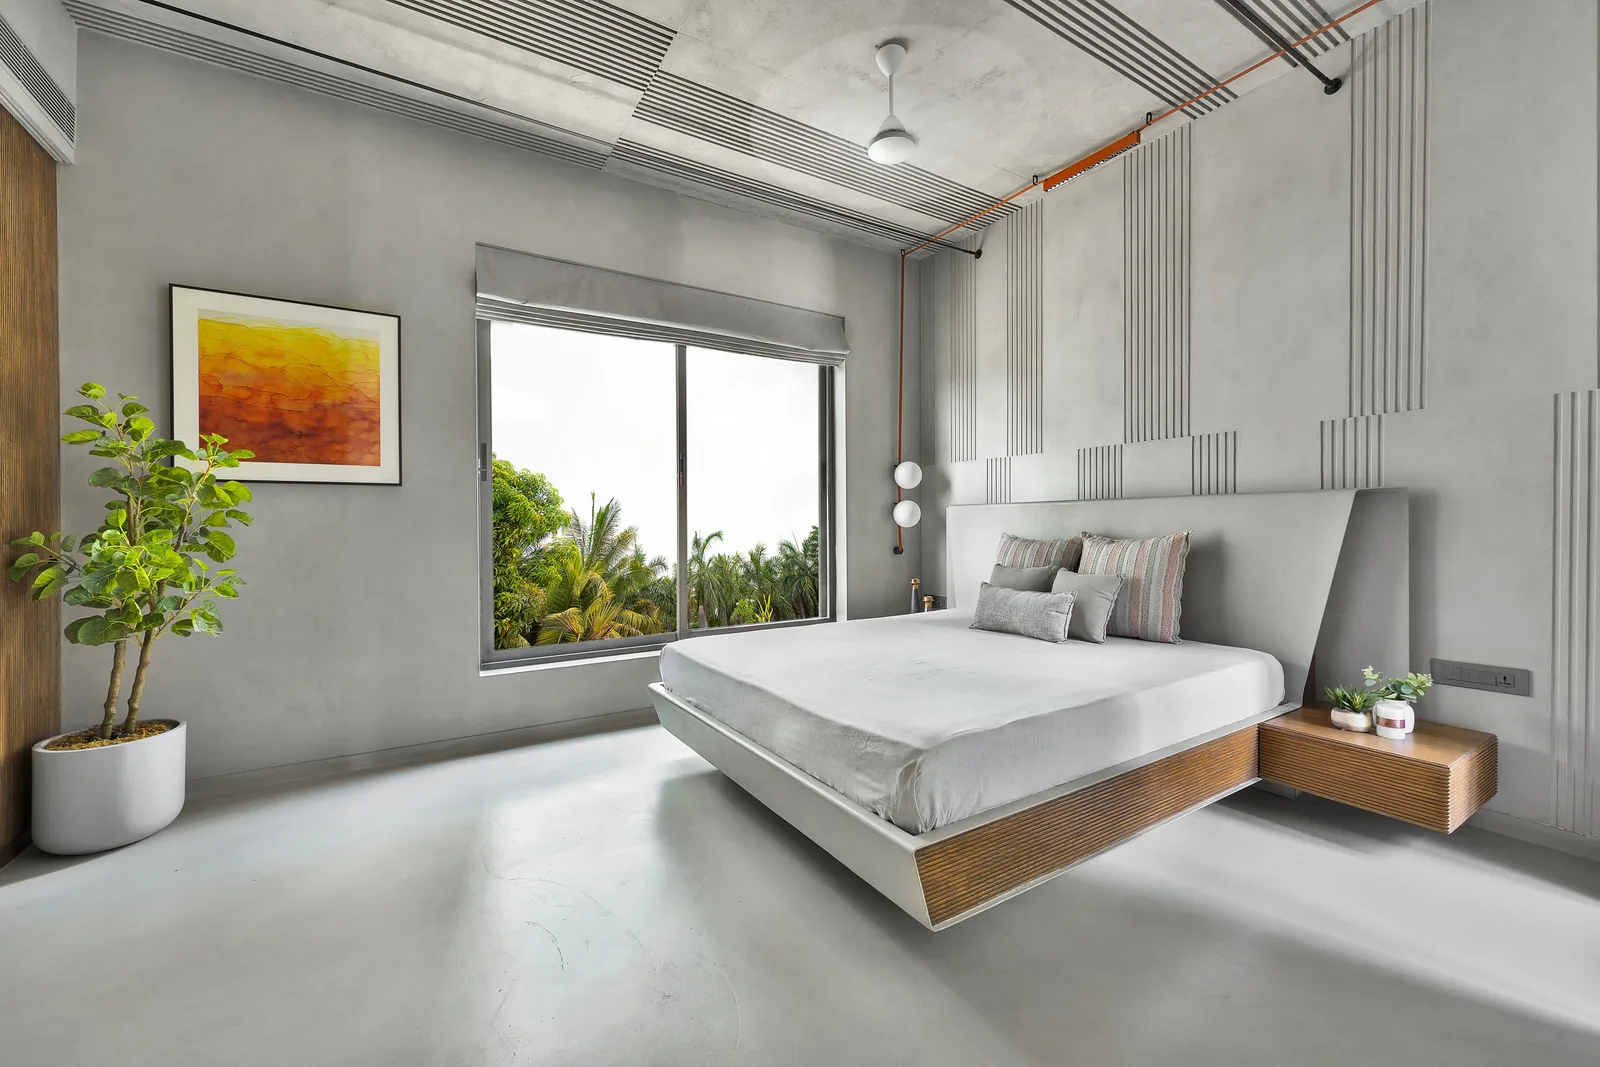
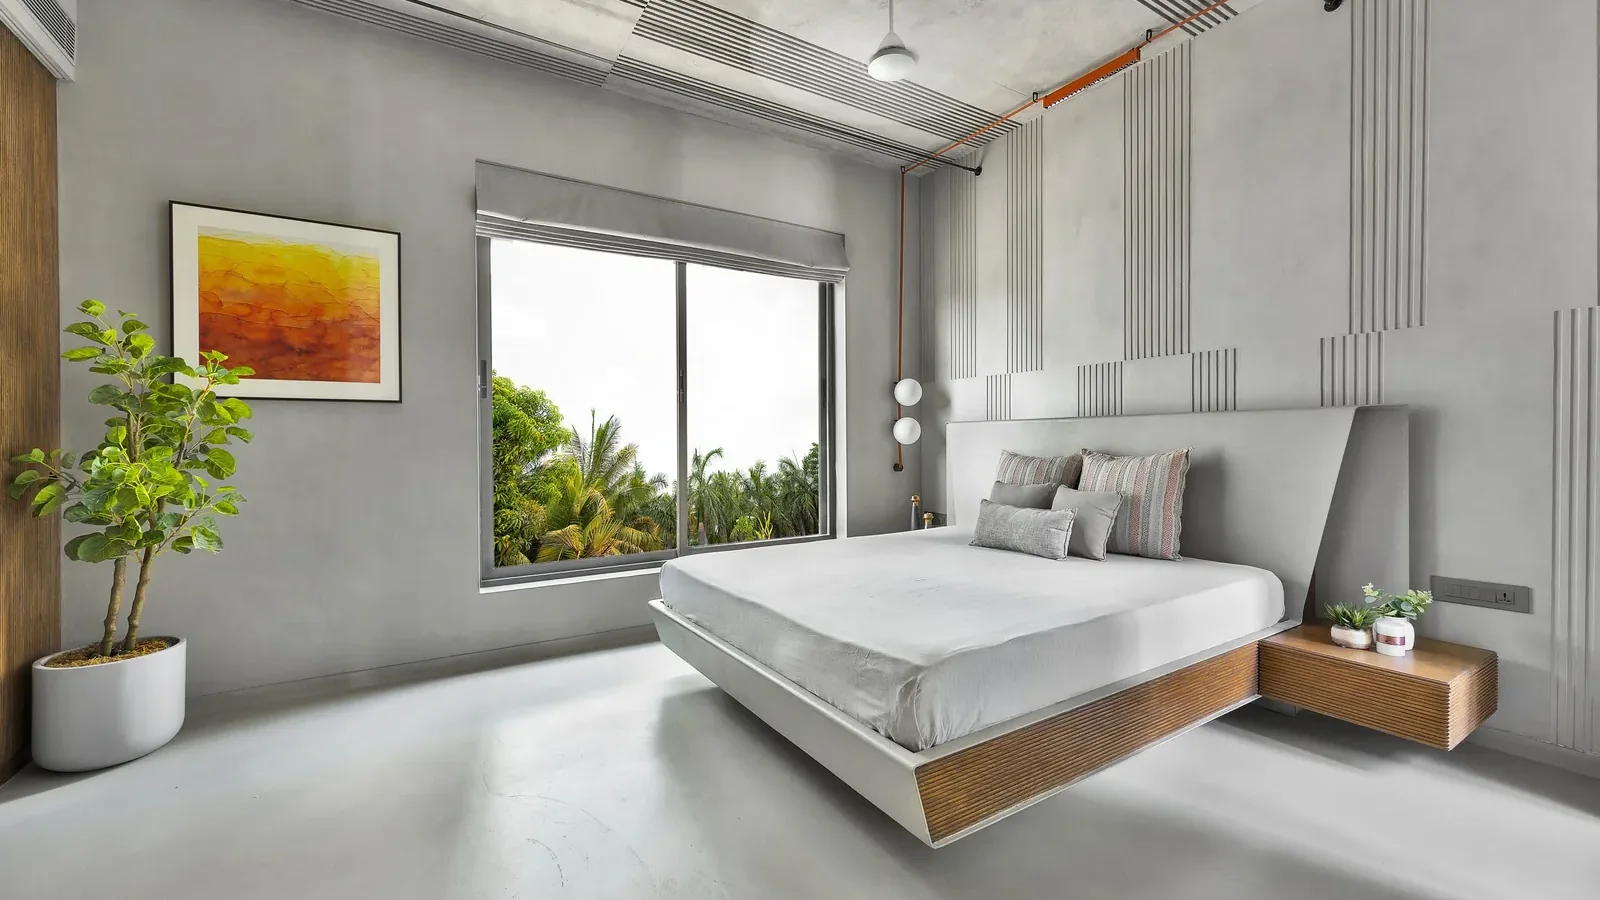
Interior slideshows: re-crop images to 16:9 high-res and fill edge-to-edge

diff --git a/css/style.css b/css/style.css
@@ -667,9 +667,9 @@ a.pgrp__head:hover .pgrp__title { color: var(--clay-soft); }
 .slide.is-active { opacity: 1; pointer-events: auto; }
 .slide img { width: 100%; height: 100%; object-fit: cover; display: block; transform: scale(1.03); transition: transform 6s var(--ease); }
 .slide.is-active img { transform: scale(1); }
-/* Interior slideshows: fixed 16:9 frame, whole photo shown (no crop, no stretch, no upscaling). */
+/* Interior slideshows: fixed 16:9 frame, filled edge-to-edge (images are pre-cropped to 16:9). */
 .slideshow--fit .slideshow__viewport { height: auto; aspect-ratio: 16 / 9; background: #0e1216; }
-.slideshow--fit .slide img { object-fit: contain; transform: none; }
+.slideshow--fit .slide img { object-fit: cover; transform: none; }
 .slideshow--fit .slide.is-active img { transform: none; }
 @media (max-width: 720px) { .slideshow--fit .slideshow__viewport { height: auto; } }
 .slideshow__nav { position: absolute; top: 50%; transform: translateY(-50%); z-index: 4; width: clamp(46px, 4vw, 58px); height: clamp(46px, 4vw, 58px); border-radius: 50%; border: 1px solid rgba(255,255,255,.45); background: rgba(10,16,22,.28); backdrop-filter: blur(4px); color: #fff; display: grid; place-items: center; cursor: pointer; opacity: .78; transition: opacity .3s var(--ease), background .3s var(--ease), border-color .3s var(--ease); }

diff --git a/about.html b/about.html
@@ -10,7 +10,7 @@
 <link rel="icon" type="image/png" sizes="16x16" href="assets/favicon-16.png?v=tdl" />
 <link rel="apple-touch-icon" sizes="180x180" href="assets/favicon-180.png?v=tdl" />
 <link rel="preconnect" href="https://fonts.googleapis.com" /><link rel="preconnect" href="https://fonts.gstatic.com" crossorigin /><link href="https://fonts.googleapis.com/css2?family=Cormorant+Garamond:wght@400;500;600&family=Quicksand:wght@300;400;500;600;700&display=swap" rel="stylesheet" />
-<link rel="stylesheet" href="css/style.css?v=7ea13d2f" />
+<link rel="stylesheet" href="css/style.css?v=a86cf709" />
 </head>
 <body>
 <header class="site-header solid on-light">

diff --git a/careers.html b/careers.html
@@ -10,7 +10,7 @@
 <link rel="icon" type="image/png" sizes="16x16" href="assets/favicon-16.png?v=tdl" />
 <link rel="apple-touch-icon" sizes="180x180" href="assets/favicon-180.png?v=tdl" />
 <link rel="preconnect" href="https://fonts.googleapis.com" /><link rel="preconnect" href="https://fonts.gstatic.com" crossorigin /><link href="https://fonts.googleapis.com/css2?family=Cormorant+Garamond:wght@400;500;600&family=Quicksand:wght@300;400;500;600;700&display=swap" rel="stylesheet" />
-<link rel="stylesheet" href="css/style.css?v=7ea13d2f" />
+<link rel="stylesheet" href="css/style.css?v=a86cf709" />
 </head>
 <body>
 <header class="site-header solid on-light">

diff --git a/contact.html b/contact.html
@@ -10,7 +10,7 @@
 <link rel="icon" type="image/png" sizes="16x16" href="assets/favicon-16.png?v=tdl" />
 <link rel="apple-touch-icon" sizes="180x180" href="assets/favicon-180.png?v=tdl" />
 <link rel="preconnect" href="https://fonts.googleapis.com" /><link rel="preconnect" href="https://fonts.gstatic.com" crossorigin /><link href="https://fonts.googleapis.com/css2?family=Cormorant+Garamond:wght@400;500;600&family=Quicksand:wght@300;400;500;600;700&display=swap" rel="stylesheet" />
-<link rel="stylesheet" href="css/style.css?v=7ea13d2f" />
+<link rel="stylesheet" href="css/style.css?v=a86cf709" />
 </head>
 <body>
 <header class="site-header solid on-light">

diff --git a/recognition.html b/recognition.html
@@ -10,7 +10,7 @@
 <link rel="icon" type="image/png" sizes="16x16" href="assets/favicon-16.png?v=tdl" />
 <link rel="apple-touch-icon" sizes="180x180" href="assets/favicon-180.png?v=tdl" />
 <link rel="preconnect" href="https://fonts.googleapis.com" /><link rel="preconnect" href="https://fonts.gstatic.com" crossorigin /><link href="https://fonts.googleapis.com/css2?family=Cormorant+Garamond:wght@400;500;600&family=Quicksand:wght@300;400;500;600;700&display=swap" rel="stylesheet" />
-<link rel="stylesheet" href="css/style.css?v=7ea13d2f" />
+<link rel="stylesheet" href="css/style.css?v=a86cf709" />
 </head>
 <body>
 <header class="site-header solid on-light">

diff --git a/index.html b/index.html
@@ -10,7 +10,7 @@
 <link rel="icon" type="image/png" sizes="16x16" href="assets/favicon-16.png?v=tdl" />
 <link rel="apple-touch-icon" sizes="180x180" href="assets/favicon-180.png?v=tdl" />
 <link rel="preconnect" href="https://fonts.googleapis.com" /><link rel="preconnect" href="https://fonts.gstatic.com" crossorigin /><link href="https://fonts.googleapis.com/css2?family=Cormorant+Garamond:wght@400;500;600&family=Quicksand:wght@300;400;500;600;700&display=swap" rel="stylesheet" />
-<link rel="stylesheet" href="css/style.css?v=7ea13d2f" />
+<link rel="stylesheet" href="css/style.css?v=a86cf709" />
 </head>
 <body>
 <header class="site-header on-home">

diff --git a/asamvrta.html b/asamvrta.html
@@ -10,7 +10,7 @@
 <link rel="icon" type="image/png" sizes="16x16" href="assets/favicon-16.png?v=tdl" />
 <link rel="apple-touch-icon" sizes="180x180" href="assets/favicon-180.png?v=tdl" />
 <link rel="preconnect" href="https://fonts.googleapis.com" /><link rel="preconnect" href="https://fonts.gstatic.com" crossorigin /><link href="https://fonts.googleapis.com/css2?family=Cormorant+Garamond:wght@400;500;600&family=Quicksand:wght@300;400;500;600;700&display=swap" rel="stylesheet" />
-<link rel="stylesheet" href="css/style.css?v=7ea13d2f" />
+<link rel="stylesheet" href="css/style.css?v=a86cf709" />
 </head>
 <body>
 <header class="site-header">

diff --git a/calibre.html b/calibre.html
@@ -10,7 +10,7 @@
 <link rel="icon" type="image/png" sizes="16x16" href="assets/favicon-16.png?v=tdl" />
 <link rel="apple-touch-icon" sizes="180x180" href="assets/favicon-180.png?v=tdl" />
 <link rel="preconnect" href="https://fonts.googleapis.com" /><link rel="preconnect" href="https://fonts.gstatic.com" crossorigin /><link href="https://fonts.googleapis.com/css2?family=Cormorant+Garamond:wght@400;500;600&family=Quicksand:wght@300;400;500;600;700&display=swap" rel="stylesheet" />
-<link rel="stylesheet" href="css/style.css?v=7ea13d2f" />
+<link rel="stylesheet" href="css/style.css?v=a86cf709" />
 </head>
 <body>
 <header class="site-header">

diff --git a/founder-portfolio.html b/founder-portfolio.html
@@ -10,7 +10,7 @@
 <link rel="icon" type="image/png" sizes="16x16" href="assets/favicon-16.png?v=tdl" />
 <link rel="apple-touch-icon" sizes="180x180" href="assets/favicon-180.png?v=tdl" />
 <link rel="preconnect" href="https://fonts.googleapis.com" /><link rel="preconnect" href="https://fonts.gstatic.com" crossorigin /><link href="https://fonts.googleapis.com/css2?family=Cormorant+Garamond:wght@400;500;600&family=Quicksand:wght@300;400;500;600;700&display=swap" rel="stylesheet" />
-<link rel="stylesheet" href="css/style.css?v=7ea13d2f" />
+<link rel="stylesheet" href="css/style.css?v=a86cf709" />
 </head>
 <body>
 <header class="site-header">

diff --git a/founders-mind.html b/founders-mind.html
@@ -10,7 +10,7 @@
 <link rel="icon" type="image/png" sizes="16x16" href="assets/favicon-16.png?v=tdl" />
 <link rel="apple-touch-icon" sizes="180x180" href="assets/favicon-180.png?v=tdl" />
 <link rel="preconnect" href="https://fonts.googleapis.com" /><link rel="preconnect" href="https://fonts.gstatic.com" crossorigin /><link href="https://fonts.googleapis.com/css2?family=Cormorant+Garamond:wght@400;500;600&family=Quicksand:wght@300;400;500;600;700&display=swap" rel="stylesheet" />
-<link rel="stylesheet" href="css/style.css?v=7ea13d2f" />
+<link rel="stylesheet" href="css/style.css?v=a86cf709" />
 </head>
 <body>
 <header class="site-header">

diff --git a/gospels.html b/gospels.html
@@ -10,7 +10,7 @@
 <link rel="icon" type="image/png" sizes="16x16" href="assets/favicon-16.png?v=tdl" />
 <link rel="apple-touch-icon" sizes="180x180" href="assets/favicon-180.png?v=tdl" />
 <link rel="preconnect" href="https://fonts.googleapis.com" /><link rel="preconnect" href="https://fonts.gstatic.com" crossorigin /><link href="https://fonts.googleapis.com/css2?family=Cormorant+Garamond:wght@400;500;600&family=Quicksand:wght@300;400;500;600;700&display=swap" rel="stylesheet" />
-<link rel="stylesheet" href="css/style.css?v=7ea13d2f" />
+<link rel="stylesheet" href="css/style.css?v=a86cf709" />
 </head>
 <body>
 <header class="site-header">

diff --git a/icon.html b/icon.html
@@ -10,7 +10,7 @@
 <link rel="icon" type="image/png" sizes="16x16" href="assets/favicon-16.png?v=tdl" />
 <link rel="apple-touch-icon" sizes="180x180" href="assets/favicon-180.png?v=tdl" />
 <link rel="preconnect" href="https://fonts.googleapis.com" /><link rel="preconnect" href="https://fonts.gstatic.com" crossorigin /><link href="https://fonts.googleapis.com/css2?family=Cormorant+Garamond:wght@400;500;600&family=Quicksand:wght@300;400;500;600;700&display=swap" rel="stylesheet" />
-<link rel="stylesheet" href="css/style.css?v=7ea13d2f" />
+<link rel="stylesheet" href="css/style.css?v=a86cf709" />
 </head>
 <body>
 <header class="site-header">
